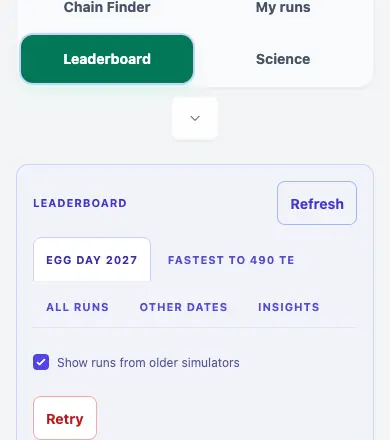
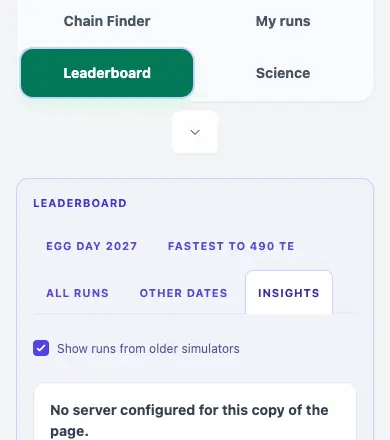
Tour: sub-tab slides show the sub-tab selected (By a date, Insights); Setup pill round gear up to 1583 px on My runs

diff --git a/wasmegg/ascension-planner/src/components/auto/SetupDock.vue b/wasmegg/ascension-planner/src/components/auto/SetupDock.vue
@@ -23,7 +23,7 @@
       :class="[
         stacked ? 'xl:w-40 xl:flex-wrap xl:justify-center xl:rounded-2xl' : 'xl:flex-nowrap xl:max-w-[27rem] xl:rounded-2xl',
         round ? 'max-sm:w-12 max-sm:h-12 max-sm:p-0 max-sm:gap-0 max-sm:rounded-full' : '',
-        searching ? '' : summary ? 'sm:max-[1279px]:w-12 sm:max-[1279px]:h-12 sm:max-[1279px]:p-0 sm:max-[1279px]:gap-0 sm:max-[1279px]:rounded-full' : 'max-[1279px]:w-12 max-[1279px]:h-12 max-[1279px]:p-0 max-[1279px]:gap-0 max-[1279px]:rounded-full',
+        searching ? '' : summary ? 'sm:max-[1583px]:w-12 sm:max-[1583px]:h-12 sm:max-[1583px]:p-0 sm:max-[1583px]:gap-0 sm:max-[1583px]:rounded-full' : 'max-[1279px]:w-12 max-[1279px]:h-12 max-[1279px]:p-0 max-[1279px]:gap-0 max-[1279px]:rounded-full',
       ]"
       data-testid="setup-dock-pill"
     >
@@ -31,7 +31,7 @@
       <!-- Below sm, as the round gear (Jordan, 12 Nov 2026 pm), there is no handle: the gear itself drags (onGearDown). -->
       <span
         class="cursor-grab active:cursor-grabbing touch-none select-none px-1 text-white hover:text-white"
-        :class="[round ? 'max-sm:hidden' : '', searching ? '' : summary ? 'sm:max-[1279px]:hidden' : 'max-[1279px]:hidden']"
+        :class="[round ? 'max-sm:hidden' : '', searching ? '' : summary ? 'sm:max-[1583px]:hidden' : 'max-[1279px]:hidden']"
         title="Drag to move · double-click to put back"
         aria-hidden="true"
         @pointerdown="startDrag"
@@ -45,7 +45,7 @@
         :class="[
           summary ? 'basis-0 grow xl:basis-auto xl:grow-0' : '',
           round ? 'max-sm:w-12 max-sm:h-12 max-sm:p-0 max-sm:justify-center max-sm:touch-none max-sm:select-none' : '',
-          searching ? '' : summary ? 'sm:max-[1279px]:w-12 sm:max-[1279px]:h-12 sm:max-[1279px]:p-0 sm:max-[1279px]:justify-center sm:max-[1279px]:touch-none sm:max-[1279px]:select-none' : 'max-[1279px]:w-12 max-[1279px]:h-12 max-[1279px]:p-0 max-[1279px]:justify-center max-[1279px]:touch-none max-[1279px]:select-none',
+          searching ? '' : summary ? 'sm:max-[1583px]:w-12 sm:max-[1583px]:h-12 sm:max-[1583px]:p-0 sm:max-[1583px]:justify-center sm:max-[1583px]:touch-none sm:max-[1583px]:select-none' : 'max-[1279px]:w-12 max-[1279px]:h-12 max-[1279px]:p-0 max-[1279px]:justify-center max-[1279px]:touch-none max-[1279px]:select-none',
         ]"
         :aria-expanded="ui.setupOpen"
         aria-label="Setup"
@@ -54,7 +54,7 @@
         @pointerdown="onGearDown"
         @click="onGearClick"
       >
-        <svg class="w-4 h-4 shrink-0" :class="[round ? 'max-sm:w-6 max-sm:h-6' : '', searching ? '' : summary ? 'sm:max-[1279px]:w-6 sm:max-[1279px]:h-6' : 'max-[1279px]:w-6 max-[1279px]:h-6']" fill="none" stroke="currentColor" viewBox="0 0 24 24" aria-hidden="true">
+        <svg class="w-4 h-4 shrink-0" :class="[round ? 'max-sm:w-6 max-sm:h-6' : '', searching ? '' : summary ? 'sm:max-[1583px]:w-6 sm:max-[1583px]:h-6' : 'max-[1279px]:w-6 max-[1279px]:h-6']" fill="none" stroke="currentColor" viewBox="0 0 24 24" aria-hidden="true">
           <path
             stroke-linecap="round"
             stroke-linejoin="round"
@@ -62,10 +62,10 @@
             d="M10.3 4.3c.4-1.8 3-1.8 3.4 0a1.7 1.7 0 002.6 1.1c1.5-1 3.4.9 2.4 2.4a1.7 1.7 0 001.1 2.6c1.8.4 1.8 3 0 3.4a1.7 1.7 0 00-1.1 2.6c1 1.5-.9 3.4-2.4 2.4a1.7 1.7 0 00-2.6 1.1c-.4 1.8-3 1.8-3.4 0a1.7 1.7 0 00-2.6-1.1c-1.5 1-3.4-.9-2.4-2.4a1.7 1.7 0 00-1.1-2.6c-1.8-.4-1.8-3 0-3.4a1.7 1.7 0 001.1-2.6c-1-1.5.9-3.4 2.4-2.4a1.7 1.7 0 002.6-1.1zM15 12a3 3 0 11-6 0 3 3 0 016 0z"
           />
         </svg>
-        <span class="flex flex-col items-start leading-tight" :class="[round ? 'max-sm:hidden' : '', searching ? '' : summary ? 'sm:max-[1279px]:hidden' : 'max-[1279px]:hidden']">
+        <span class="flex flex-col items-start leading-tight" :class="[round ? 'max-sm:hidden' : '', searching ? '' : summary ? 'sm:max-[1583px]:hidden' : 'max-[1279px]:hidden']">
           <span class="text-body font-bold">Setup</span>
           <!-- My runs (17 Oct 2026): the hours and time off under it, since that page has no setup box. -->
-          <span v-if="summary" class="text-small font-normal text-white text-left xl:max-w-[13rem] sm:max-[1279px]:hidden" data-testid="setup-dock-summary">{{ summary }}</span>
+          <span v-if="summary" class="text-small font-normal text-white text-left xl:max-w-[13rem] sm:max-[1583px]:hidden" data-testid="setup-dock-summary">{{ summary }}</span>
         </span>
         <span
           v-if="errors"
@@ -290,9 +290,13 @@ function endDrag(): void {
  *  press that doesn't is a tap, which opens Setup (onGearClick). The click a drag ends with is swallowed. */
 let gearFrom: { px: number; py: number; x: number; y: number; id: number } | null = null;
 let dragged = false;
+/** Where the round gear gives way to the full pill: 1280 px, and on My runs 1584 (the 1152 px column plus a margin that holds the pill). */
+const ROUND_UNDER = 1280;
+const ROUND_UNDER_MY_RUNS = 1584;
 function roundNow(): boolean {
-  // Phones (the old round gear) and, from 17 Nov 2026, any width below 1280 where the pill is the round gear (not while a search runs).
-  return (round.value && viewport.value.w < 640) || (!searching.value && (props.summary ? viewport.value.w >= 640 : true) && viewport.value.w < 1280);
+  // Phones (the old round gear) and, from 17 Nov 2026, any width below 1280 where the pill is the round gear (not while a search runs);
+  // on My runs (the summary) from sm to 1583 px: its full pill covers the egg cards until the 1152 px column leaves it a margin.
+  return (round.value && viewport.value.w < 640) || (!searching.value && (props.summary ? viewport.value.w >= 640 && viewport.value.w < ROUND_UNDER_MY_RUNS : viewport.value.w < ROUND_UNDER));
 }
 function onGearDown(e: PointerEvent): void {
   dragged = false;

diff --git a/wasmegg/ascension-planner/src/components/auto/SetupDock.narrowDesk.spec.ts b/wasmegg/ascension-planner/src/components/auto/SetupDock.narrowDesk.spec.ts
@@ -75,11 +75,12 @@ describe('(b) from sm to 1279 px the pill is the round gear, My runs included', 
     const c = classOf(pillTag(await render()));
     expect(c).toEqual(expect.arrayContaining(['max-[1279px]:w-12', 'max-[1279px]:h-12', 'max-[1279px]:p-0', 'max-[1279px]:rounded-full']));
   });
-  it('My runs (its summary): the same round gear from sm to 1279 px, its summary line hidden there', async () => {
+  it('My runs (its summary): the round gear from sm to 1583 px (17 Nov 2026: the full pill covers the egg cards until the 1152 px column leaves it a margin), its summary line hidden there', async () => {
     const html = await render({ screen: 'fastest', summary: 'Awake 8:00 AM to 11:00 PM' });
-    expect(classOf(pillTag(html))).toEqual(expect.arrayContaining(['sm:max-[1279px]:w-12', 'sm:max-[1279px]:h-12', 'sm:max-[1279px]:rounded-full']));
+    expect(classOf(pillTag(html))).toEqual(expect.arrayContaining(['sm:max-[1583px]:w-12', 'sm:max-[1583px]:h-12', 'sm:max-[1583px]:rounded-full']));
+    expect(classOf(pillTag(html)).join(' ')).not.toContain('1279px');
     expect(html).toMatch(/data-testid="setup-dock-summary"[^>]*>/);
-    expect(html.match(/<span[^>]*class="[^"]*sm:max-\[1279px\]:hidden[^"]*"[^>]*data-testid="setup-dock-summary"/) ?? html.match(/<span[^>]*data-testid="setup-dock-summary"[^>]*class="[^"]*sm:max-\[1279px\]:hidden/)).toBeTruthy();
+    expect(html.match(/<span[^>]*class="[^"]*sm:max-\[1583px\]:hidden[^"]*"[^>]*data-testid="setup-dock-summary"/) ?? html.match(/<span[^>]*data-testid="setup-dock-summary"[^>]*class="[^"]*sm:max-\[1583px\]:hidden/)).toBeTruthy();
   });
   it('a running search keeps the pill (its workers stay adjustable)', async () => {
     const c = classOf(pillTag(await render({ screen: 'fastest' }, { searching: true })));
@@ -89,8 +90,15 @@ describe('(b) from sm to 1279 px the pill is the round gear, My runs included', 
     const app = readFileSync(new URL('../../App.vue', import.meta.url), 'utf8');
     expect(app).toMatch(/setupDockShown \? 'sm:max-\[1279px\]:pr-\[4\.5rem\]' : ''/);
   });
-  it('the gear drags itself up to 1279 px, not only on a phone', () => {
+  it('the gear drags itself up to 1279 px (1583 on My runs), not only on a phone', () => {
     const src = readFileSync(new URL('./SetupDock.vue', import.meta.url), 'utf8');
-    expect(src).toContain('viewport.value.w < 1280');
+    expect(src).toContain('(props.summary ? viewport.value.w >= 640 && viewport.value.w < ROUND_UNDER_MY_RUNS : viewport.value.w < ROUND_UNDER)');
+    expect(src).toContain('const ROUND_UNDER = 1280;');
+    expect(src).toContain('const ROUND_UNDER_MY_RUNS = 1584;');
+  });
+  it('the right margin rule stays at 1279: from 1280 px the 1152 px column leaves a 64 px margin, which holds the 48 px gear 16 px from the edge', () => {
+    const app = readFileSync(new URL('../../App.vue', import.meta.url), 'utf8');
+    expect(app).toContain('From sm to 1279 px');
+    expect(app).not.toContain('1583');
   });
 });

diff --git a/wasmegg/ascension-planner/src/lib/tourRings.spec.ts b/wasmegg/ascension-planner/src/lib/tourRings.spec.ts
@@ -123,6 +123,16 @@ describe('tour picture overlays (v4)', () => {
     }
   });
 
+  it('a slide about a sub-tab shows it SELECTED (17 Nov 2026): By a date has a picture of its own, not Target TE\'s; so has the full tour\'s Insights view', () => {
+    const base = (id: string, f: string) => overlays[`${id}-${f}`]?.base;
+    for (const f of ['desk', 'phone']) {
+      expect(base('goalDate', f), f).toBeTruthy();
+      expect(base('goalDate', f), f).not.toBe(base('goalTarget', f));
+      expect(base('filters', f), f).toBe(base('goalTarget', f));
+      expect(base('full-tabInsights', f), f).not.toBe(base('full-tabLeaderboard', f));
+    }
+  });
+
   it('the page badge (17 Nov 2026): every slide whose picture is on a page has the little tab strip, that page\'s tab ringed; the Setup dialog slides have none', () => {
     const none = ['setupAwake', 'setupInside', 'setupTimeOff'];
     for (const [name, o] of entries) {

diff --git a/wasmegg/ascension-planner/src/lib/tourSlides.spec.ts b/wasmegg/ascension-planner/src/lib/tourSlides.spec.ts
@@ -62,7 +62,9 @@ describe('tour slides', () => {
     const by = (id: string) => TOUR_SLIDES.find(s => s.id === id)!;
     // Each tab slide is its own page now (17 Nov 2026), so Manual and Auto Planner fade; Chain Finder's page is Target TE's.
     expect(sharesPicture(by('tabManual'), by('tabAuto'))).toBe(false);
-    expect(sharesPicture(by('goalTarget'), by('goalDate'))).toBe(true);
+    // A sub-tab slide shows that sub-tab SELECTED (17 Nov 2026, Jordan): By a date is its own picture, Target TE's is the filters slide's.
+    expect(sharesPicture(by('goalTarget'), by('goalDate'))).toBe(false);
+    expect(sharesPicture(by('goalTarget'), by('filters'))).toBe(true);
     expect(sharesPicture(by('tabMyruns'), by('myrunsPage'))).toBe(true);
     expect(sharesPicture(by('load'), by('goalTarget'))).toBe(false);
     expect(sharesPicture(null, by('tabAuto'))).toBe(false);

diff --git a/wasmegg/ascension-planner/src/components/TourDialog.spec.ts b/wasmegg/ascension-planner/src/components/TourDialog.spec.ts
@@ -151,7 +151,7 @@ describe('TourDialog: the live overlay (spec-tour-v4, Jordan, 16 Nov 2026)', () 
   });
   it('the slides that share a page picture render the very same <img> source, so the browser keeps it while the overlay slides', async () => {
     const a = TOUR_SLIDES.findIndex(s => s.id === 'goalTarget');
-    const b = TOUR_SLIDES.findIndex(s => s.id === 'goalDate');
+    const b = TOUR_SLIDES.findIndex(s => s.id === 'filters');
     const src = (h: string) => /<img[^>]*src="([^"]+)"/.exec(h)![1];
     expect(src(await renderHtml(TourDialog, slide(a)))).toBe(src(await renderHtml(TourDialog, slide(b))));
   });
